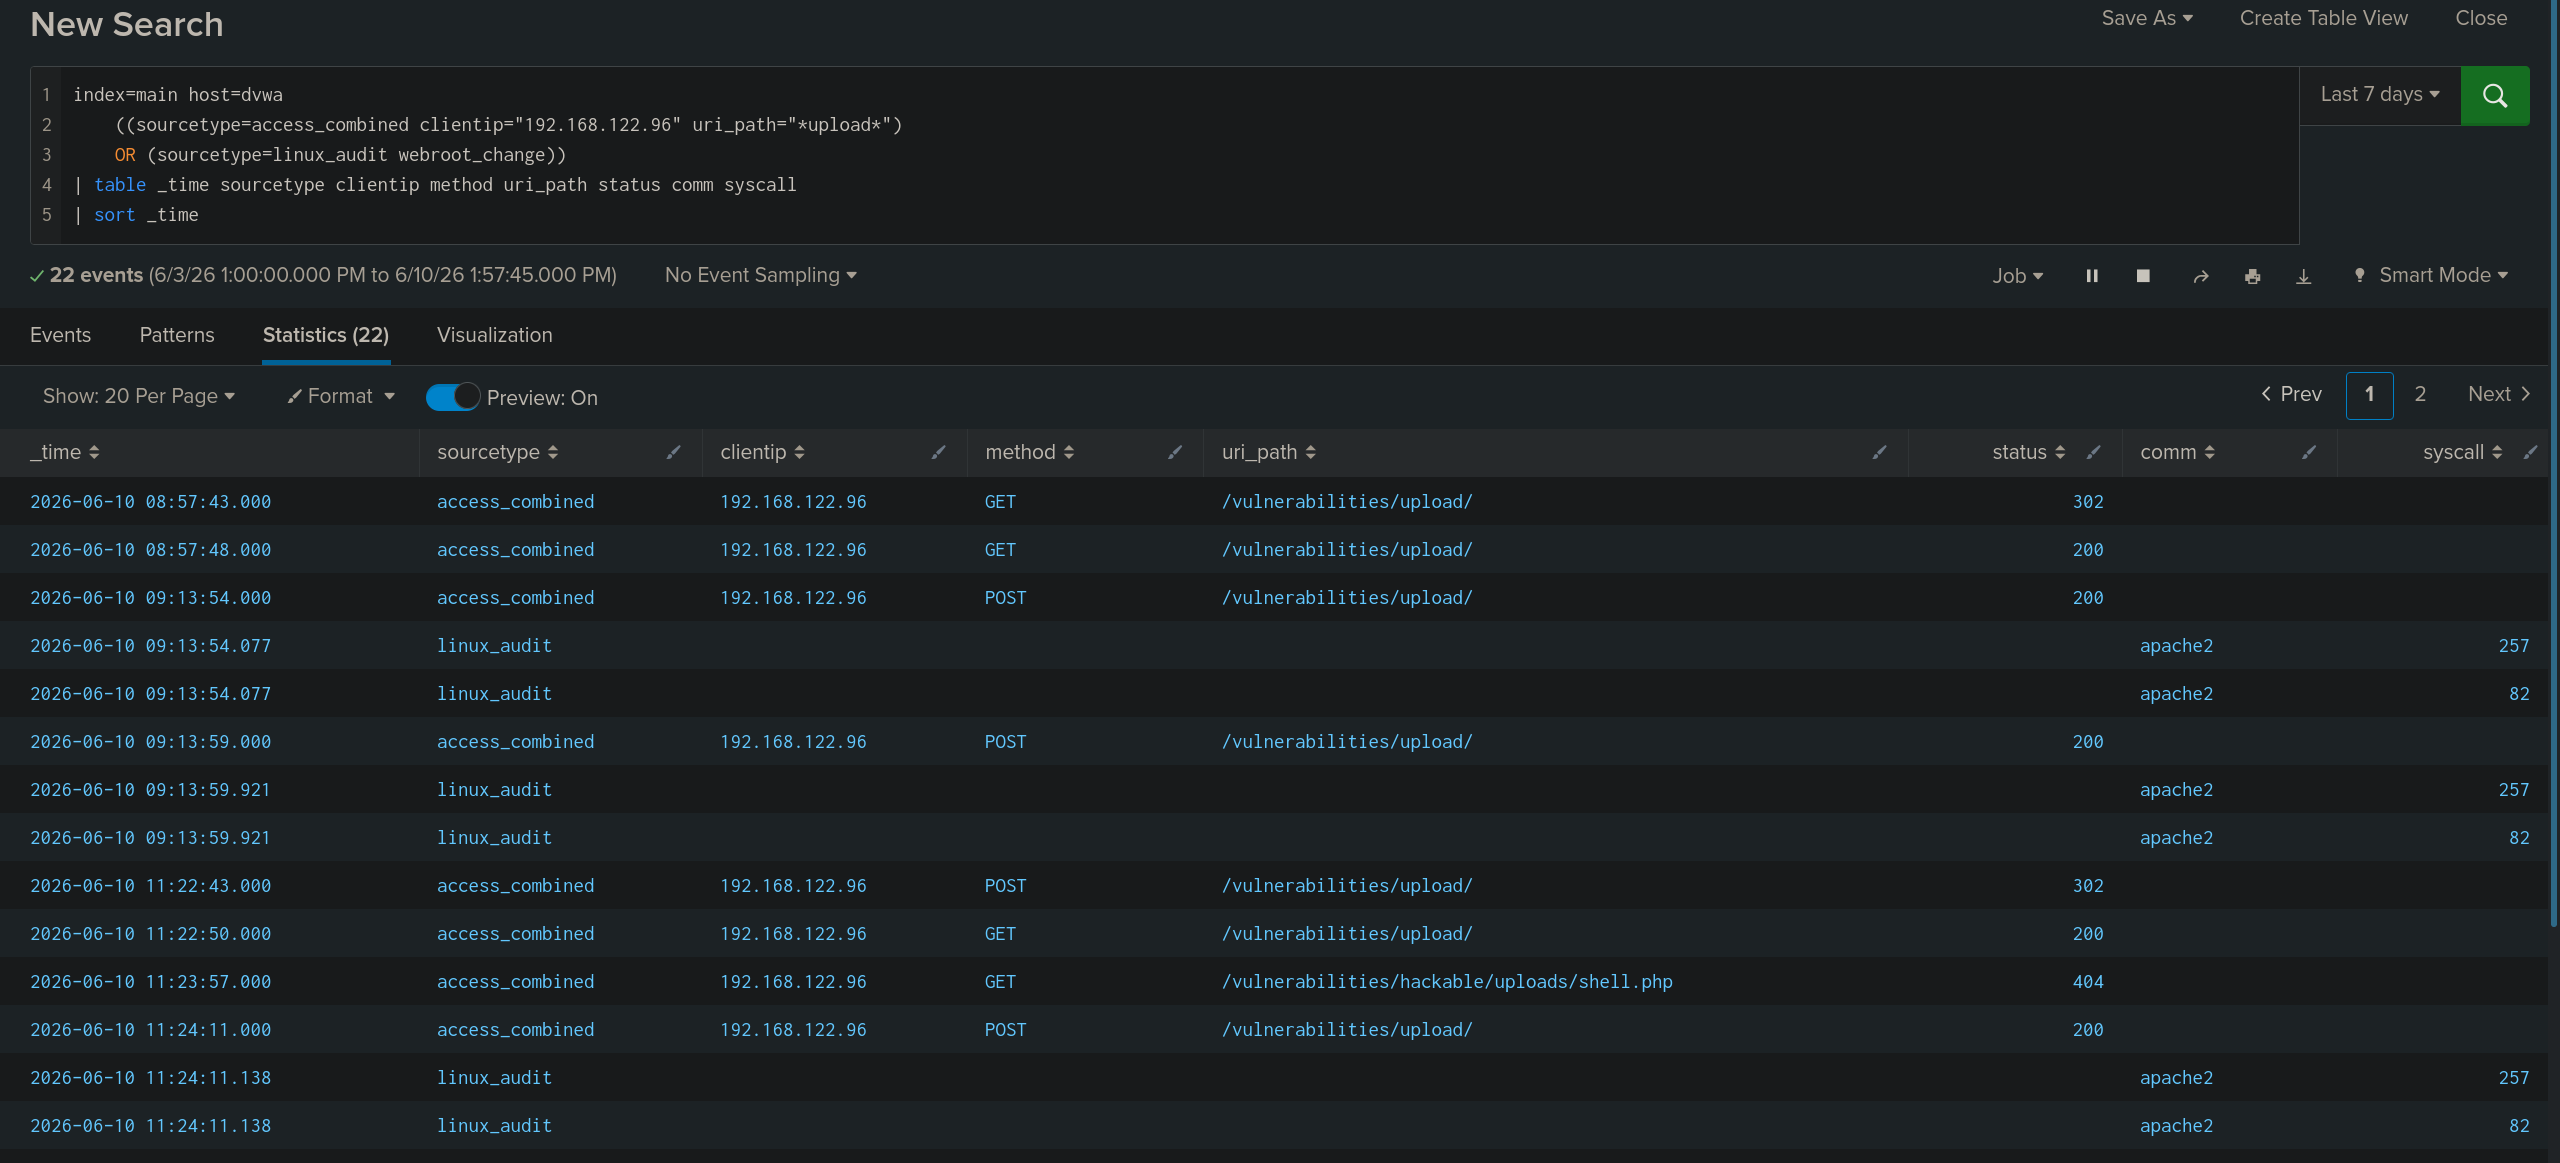
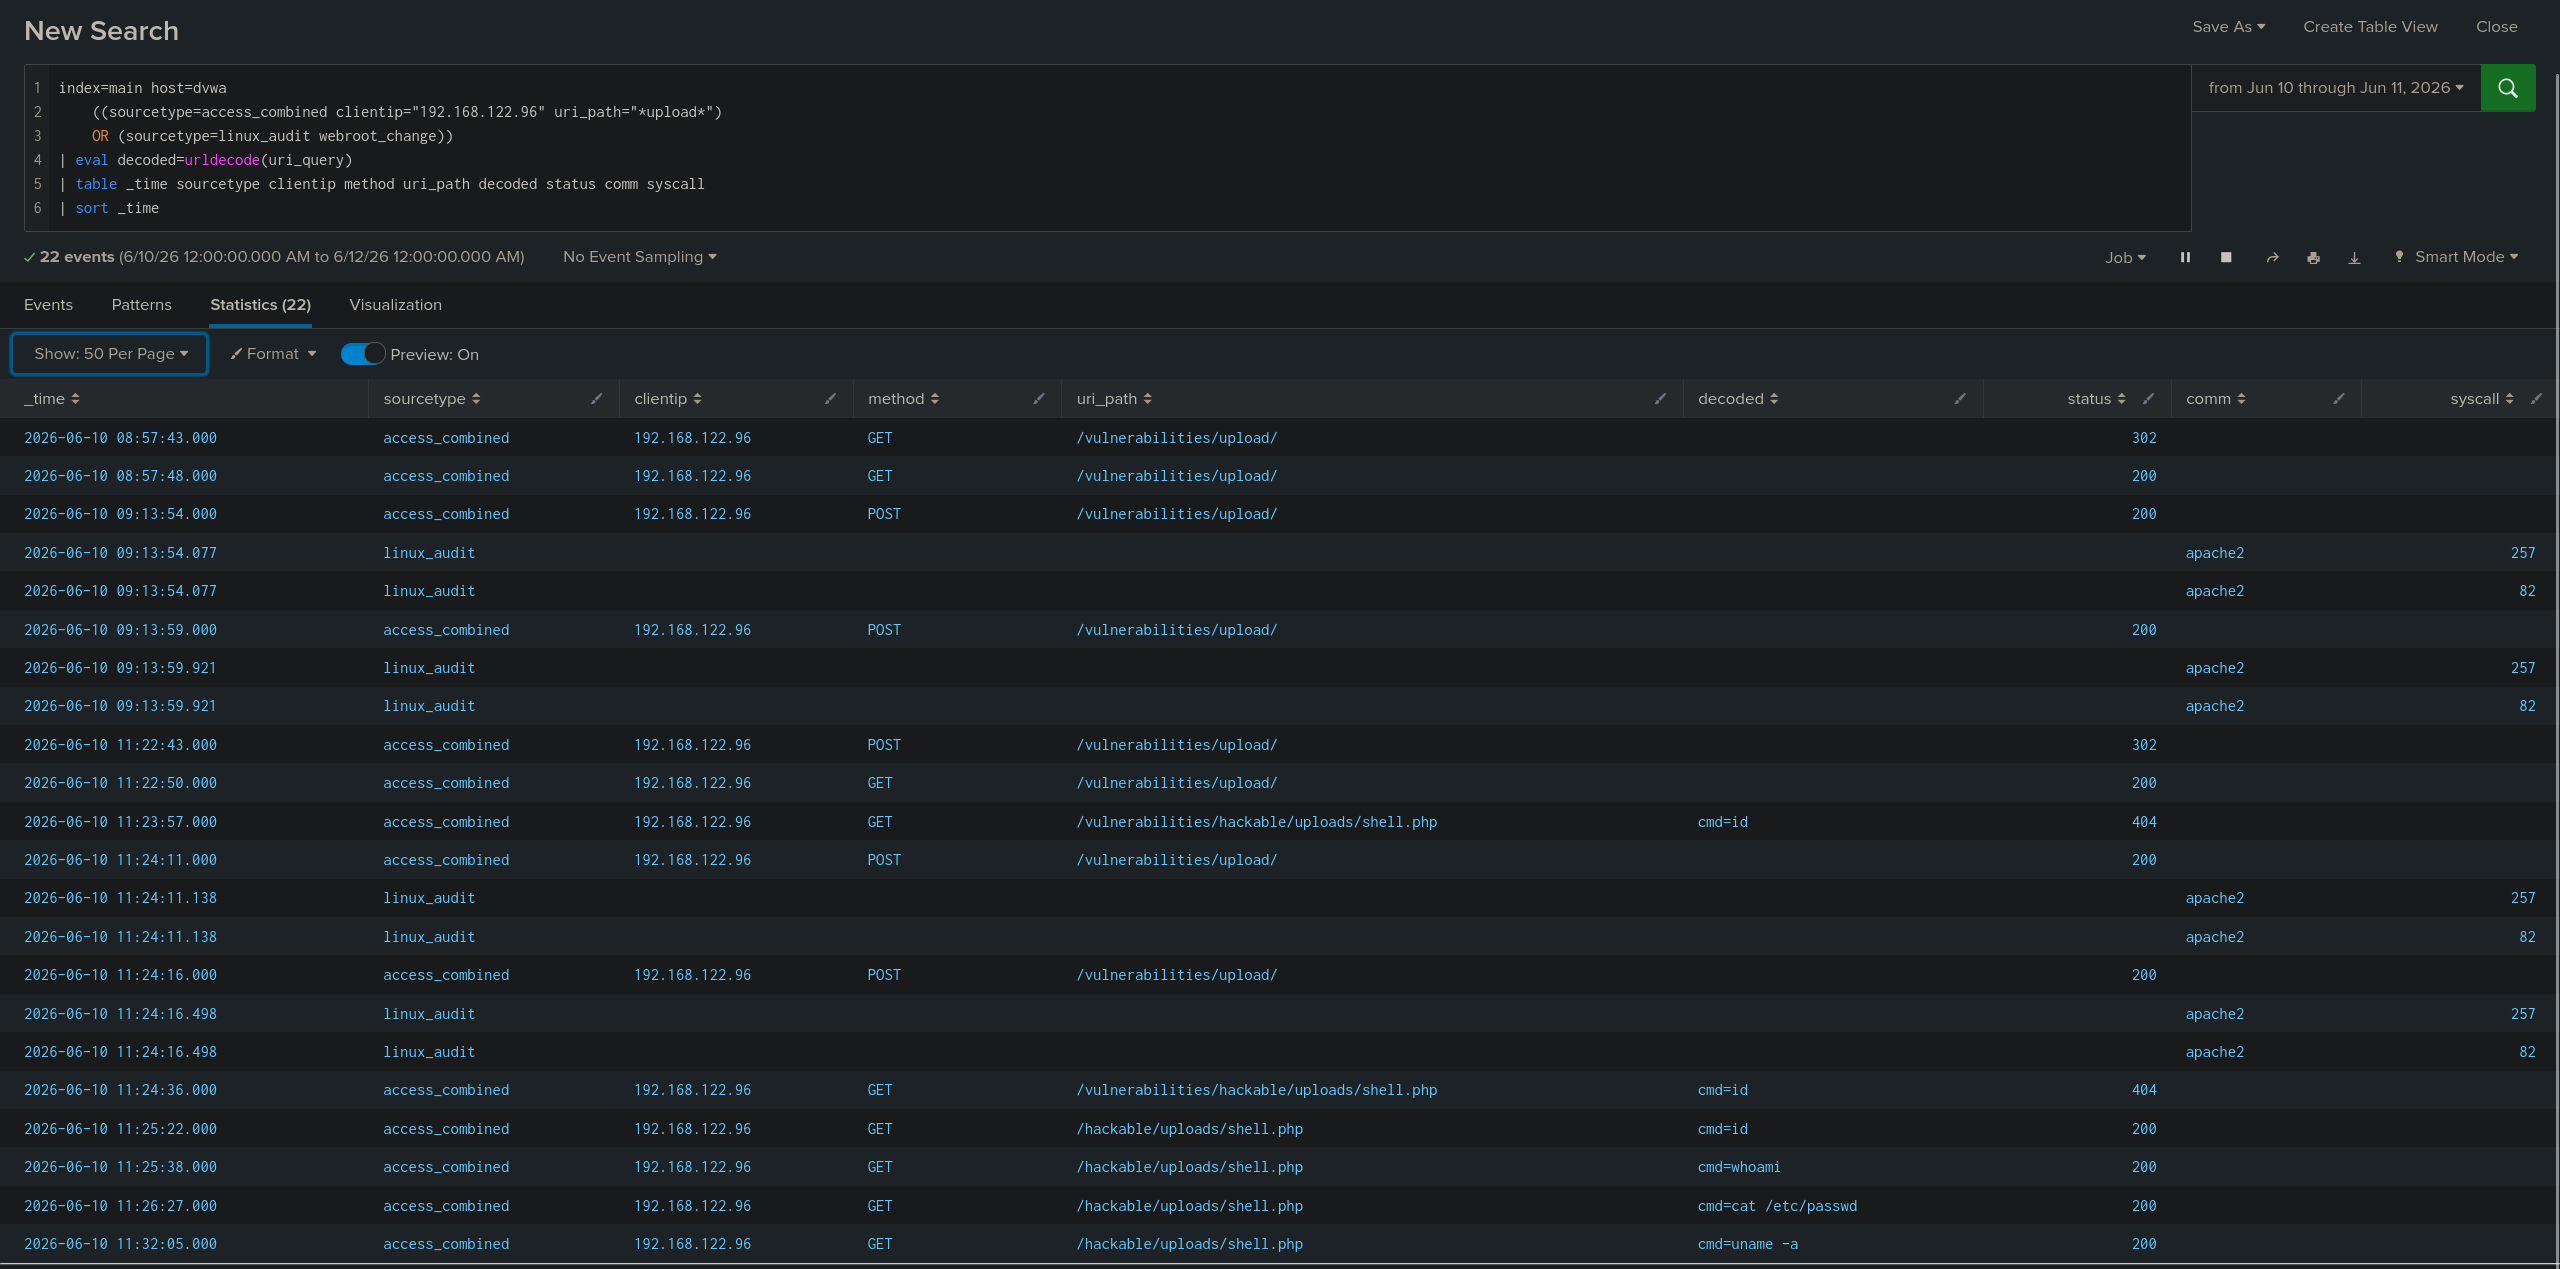
update

diff --git a/tickets/TICKET-03-lfi.md b/tickets/TICKET-03-lfi.md
@@ -2,7 +2,7 @@
 
 ## 탐지 개요
 
-- 발생 시각 : 2026-06-08 14:34
+- 발생 시각 : 2026-06-05 13:22, 15:13 / 2026-06-08 14:34
 - 출발지 IP : 192.168.122.96
 - 대상 : 192.168.122.20
 - 심각도 : High
@@ -13,7 +13,7 @@
 
 접근 로그에서 ../, /etc/passwd, /etc/shadow, /proc/self/environ 등 LFI 및 Path Traversal 시그니처가 포함된 요청 4건이 탐지되었다. 탐지된 요청은 모두 192.168.122.96에서 발생했으며 대상 경로는 /vulnerabilities/fi/이다.
 
-디코딩된 페이로드에서는 page=../../../../etc/passwd, page=../../../../etc/shadow, page=../../../../proc/self/environ 등 웹 루트 외부의 시스템 파일을 읽으려는 패턴이 확인되었다. /etc/passwd, /etc/shadow, /proc/self/environ처럼 민감한 파일을 직접 지정한 점에서 LFI 공격으로 판단된다.
+디코딩된 페이로드에서는 page=../../../../../etc/passwd, page=../../../../etc/shadow, page=../../../../proc/self/environ 등 웹 루트 외부의 시스템 파일을 읽으려는 패턴이 확인되었다. /etc/passwd, /etc/shadow, /proc/self/environ처럼 민감한 파일을 직접 지정한 점에서 LFI 공격으로 판단된다.
 
 ## 판단
 

diff --git a/docs/03_lfi.md b/docs/03_lfi.md
@@ -39,4 +39,4 @@ main 인덱스의 access_combined 로그에서 uri_query에 `../`, `/etc/passwd`
 
 ![LFI Detection](../screenshots/03_lfi_payloads.png)
 
-`192.168.122.96` 에서 `/vulnerabilities/fi/` 경로로 요청 4건이 탐지되었다. 디코딩된 페이로드에서 `../../../../etc/passwd`, `../../../../proc/self/environ` 등 웹 루트 외부의 파일을 요청하는 패턴이 확인되었다.
+`192.168.122.96` 에서 `/vulnerabilities/fi/` 경로로 요청 4건이 탐지되었다. 디코딩된 페이로드에서 `../../../../../etc/passwd`, `../../../../proc/self/environ` 등 웹 루트 외부의 파일을 요청하는 패턴이 확인되었다.

diff --git a/tickets/TICKET-01-sqli.md b/tickets/TICKET-01-sqli.md
@@ -16,13 +16,13 @@
 
 ## 판단
 
-정탐으로 판단했다. 단일 공격자 IP에서 자동화 도구와 수동 공격이 함께 식별되었다.
+정탐으로 판단했다. 단일 공격자 IP에서 sqlmap 요청이 식별되었다.
 
 ## 조치
 
 - 출발지 192.168.122.96 차단
 - id 파라미터 입력값 검증
-- 해시 유출을 가정해 DB 계정 비밀번호 재설정
+- 해시 유출을 가정해 DB의 회원 계정 비밀번호 재설정
 
 ## 근거 화면
 

diff --git a/docs/05_upload_webshell.md b/docs/05_upload_webshell.md
@@ -44,7 +44,8 @@ index=main sourcetype=linux_audit host=dvwa webroot_change
 index=main host=dvwa
     ((sourcetype=access_combined clientip="192.168.122.96" uri_path="*upload*")
     OR (sourcetype=linux_audit webroot_change))
-| table _time sourcetype clientip method uri_path status comm syscall
+| eval decoded=urldecode(uri_query)
+| table _time sourcetype clientip method uri_path decoded status comm syscall
 | sort _time
 ```
 

diff --git a/tickets/TICKET-05-upload-webshell.md b/tickets/TICKET-05-upload-webshell.md
@@ -2,7 +2,7 @@
 
 ## 탐지 개요
 
-- 발생 시각 : 2026-06-10 11:22 ~ 11:32
+- 발생 시각 : 2026-06-10 09:13 ~ 11:32
 - 출발지 IP : 192.168.122.96
 - 대상 : 192.168.122.20
 - 심각도 : High
